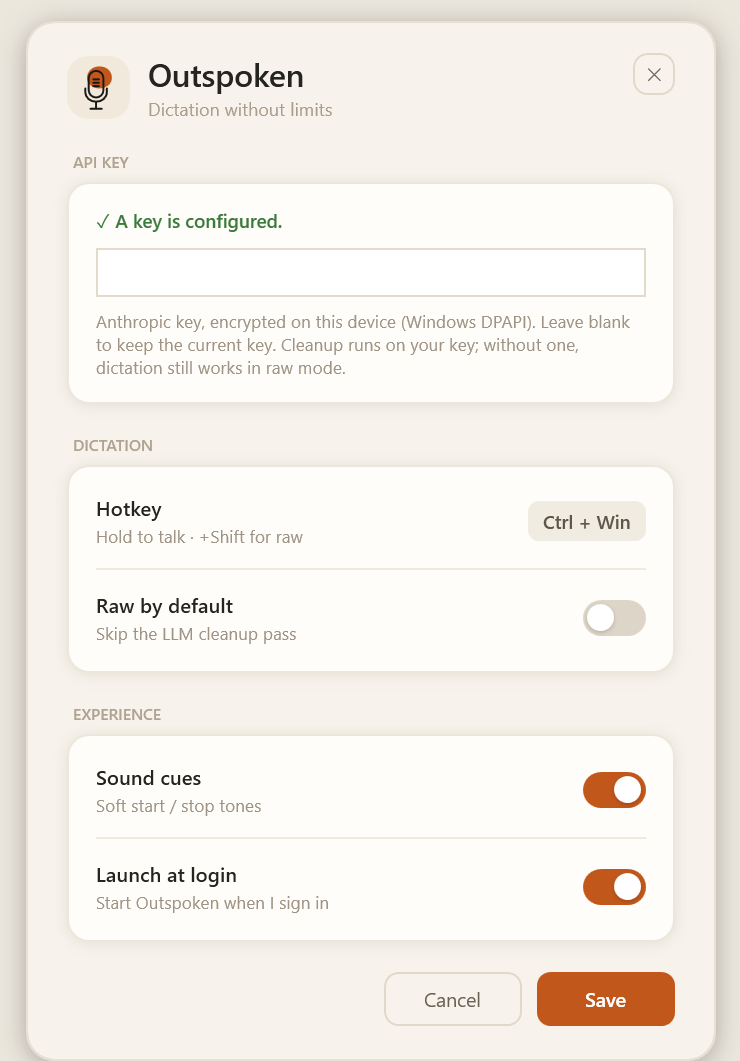
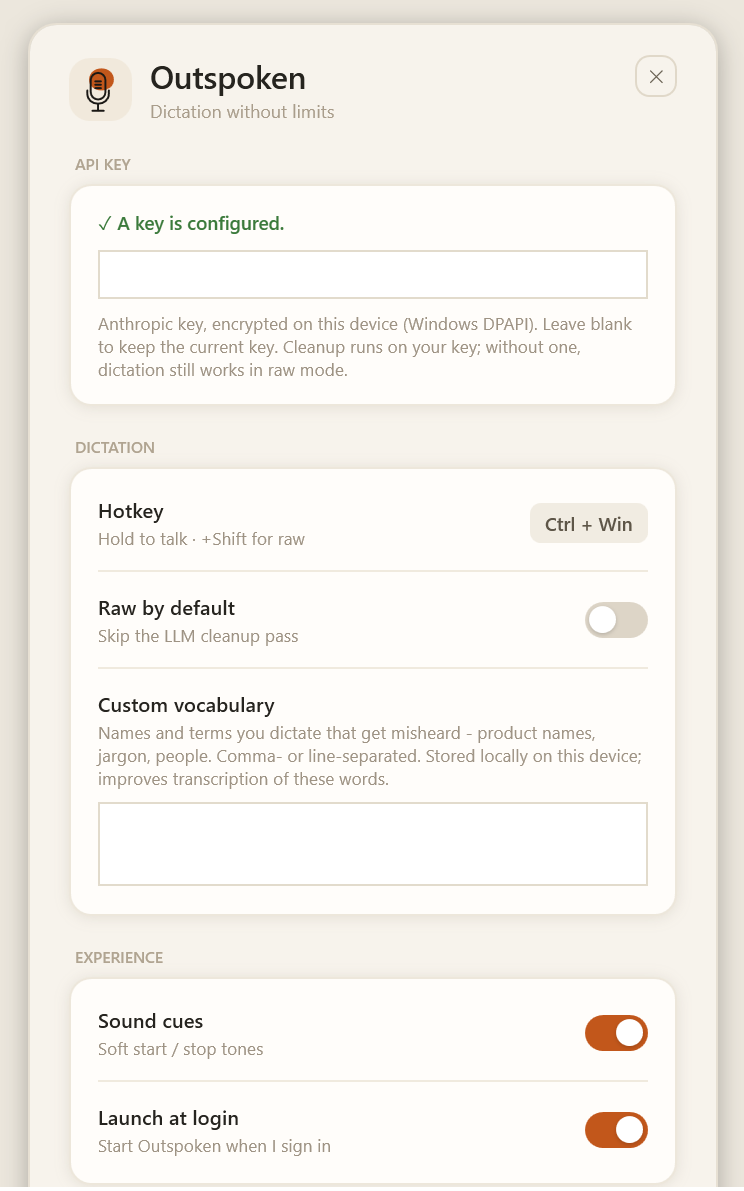
feat: T13 custom vocabulary - user-editable, primes Whisper
base.en mishears product names and jargon ("Outspoken" -> "out spoken" /
"file spoken"). Rather than hardcode a word list in this public repo, add a
user-editable custom vocabulary: a field in Settings, stored locally in
settings.json, fed into Whisper's initial prompt to bias recognition toward
those spellings. Near-zero latency cost (measured: transcription unchanged),
and nothing personal ships in the code.

- AppSettings.CustomVocabulary (defaults to empty).
- WhisperTranscriber takes the vocabulary, builds a WithPrompt seed, and
  UpdateVocabulary rebuilds the processor when it changes (next dictation).
- Settings window: a "Custom vocabulary" text box in the DICTATION card,
  with a hint; loaded/saved with the other settings.
- DictationHost passes the vocabulary at init and on settings change.
- README: describes the feature; refreshed the settings screenshot.
- Settings round-trip test covers the new field. 85/85 tests.

Verified live: entering terms then dictating "...Outspoken in Claude Code"
now transcribes the product name correctly.

diff --git a/src/Outspoken.App/SettingsWindow.xaml b/src/Outspoken.App/SettingsWindow.xaml
@@ -206,6 +206,15 @@
               <CheckBox x:Name="RawDefaultCheck" Style="{StaticResource Toggle}"
                         HorizontalAlignment="Right" VerticalAlignment="Center" />
             </Grid>
+            <Border Height="1" Background="#F0EADE" />
+            <StackPanel Margin="0,14">
+              <TextBlock Text="Custom vocabulary" Style="{StaticResource RowTitle}" />
+              <TextBlock Style="{StaticResource RowHint}"
+                         Text="Names and terms you dictate that get misheard - product names, jargon, people. Comma- or line-separated. Stored locally on this device; improves transcription of these words." />
+              <TextBox x:Name="VocabularyBox" Margin="0,9,0,0" Padding="9,7" FontSize="12"
+                       MinHeight="56" MaxHeight="120" TextWrapping="Wrap" AcceptsReturn="True"
+                       VerticalScrollBarVisibility="Auto" BorderBrush="#E2DBCC" Background="White" />
+            </StackPanel>
           </StackPanel>
         </Border>
 

diff --git a/src/Outspoken.Core/Transcription/WhisperTranscriber.cs b/src/Outspoken.Core/Transcription/WhisperTranscriber.cs
@@ -27,13 +27,17 @@ public sealed class WhisperTranscriber : ITranscriber, IDisposable
     private readonly SemaphoreSlim _lock = new(1, 1);
     private WhisperProcessor _processor;
     private bool _rebuildRequested;
+    // Whisper initial-prompt built from the user's custom vocabulary (T13). Reference assignment is
+    // atomic; a rebuild reads it under _lock. Null/empty means no vocabulary priming.
+    private volatile string? _vocabularyPrompt;
 
-    private WhisperTranscriber(string modelPath, WhisperFactory factory, WhisperProcessor processor, TimeSpan modelLoadTime)
+    private WhisperTranscriber(string modelPath, WhisperFactory factory, WhisperProcessor processor, TimeSpan modelLoadTime, string? vocabularyPrompt)
     {
         _modelPath = modelPath;
         _factory = factory;
         _processor = processor;
         ModelLoadTime = modelLoadTime;
+        _vocabularyPrompt = vocabularyPrompt;
     }
 
     /// <summary>Cold-start cost, logged at startup — must stay off the dictation path.</summary>
@@ -43,19 +47,22 @@ public sealed class WhisperTranscriber : ITranscriber, IDisposable
     public event Action<string>? ProcessorRebuilt;
 
     /// <summary>Loads the model (downloading on first run) and warms the processor.</summary>
+    /// <param name="vocabulary">Optional custom vocabulary (user setting, T13) to bias recognition.</param>
     public static async Task<WhisperTranscriber> CreateAsync(
         string? modelDirectory = null,
         IProgress<double>? downloadProgress = null,
-        CancellationToken cancellationToken = default)
+        CancellationToken cancellationToken = default,
+        string? vocabulary = null)
     {
         var modelPath = await WhisperModelStore.EnsureModelAsync(modelDirectory, downloadProgress, cancellationToken);
 
+        var prompt = BuildVocabularyPrompt(vocabulary);
         var sw = Stopwatch.StartNew();
         var factory = WhisperFactory.FromPath(modelPath);
-        var processor = BuildProcessor(factory);
+        var processor = BuildProcessor(factory, prompt);
         sw.Stop();
 
-        return new WhisperTranscriber(modelPath, factory, processor, sw.Elapsed);
+        return new WhisperTranscriber(modelPath, factory, processor, sw.Elapsed, prompt);
     }
 
     /// <summary>
@@ -63,6 +70,28 @@ public sealed class WhisperTranscriber : ITranscriber, IDisposable
     /// a processor that lived through sleep is not trusted.
     /// </summary>
     public void Rebuild() => _rebuildRequested = true;
+
+    /// <summary>
+    /// Swaps the custom vocabulary (T13). Takes effect on the next transcription via a processor
+    /// rebuild - call after the user edits the vocabulary in settings.
+    /// </summary>
+    public void UpdateVocabulary(string? vocabulary)
+    {
+        var prompt = BuildVocabularyPrompt(vocabulary);
+        if (prompt == _vocabularyPrompt)
+            return; // no change, don't churn the processor
+        _vocabularyPrompt = prompt;
+        _rebuildRequested = true;
+    }
+
+    /// <summary>Turns a user vocabulary list into a Whisper initial prompt, or null when empty.</summary>
+    private static string? BuildVocabularyPrompt(string? vocabulary)
+    {
+        var trimmed = vocabulary?.Trim();
+        return string.IsNullOrEmpty(trimmed)
+            ? null
+            : $"This is a dictation that may reference names and terms such as: {trimmed}.";
+    }
 
     public async Task<string> TranscribeAsync(CapturedAudio audio, CancellationToken cancellationToken = default)
     {
@@ -105,21 +134,27 @@ public sealed class WhisperTranscriber : ITranscriber, IDisposable
         {
             // A damaged processor may fail its own dispose; the replacement matters more.
         }
-        _processor = BuildProcessor(_factory);
+        _processor = BuildProcessor(_factory, _vocabularyPrompt);
         ProcessorRebuilt?.Invoke(reason);
     }
 
-    private static WhisperProcessor BuildProcessor(WhisperFactory factory)
+    private static WhisperProcessor BuildProcessor(WhisperFactory factory, string? vocabularyPrompt)
     {
         // Decode tuning (T12): dictation is a single utterance, so take one segment with no
         // cross-segment context, and greedy with best-of 1 (a single decode pass) instead of the
         // default best-of resampling. Cuts decode compute with no measured accuracy loss.
-        var greedy = (GreedySamplingStrategyBuilder)factory.CreateBuilder()
+        var builder = factory.CreateBuilder()
             .WithLanguage("en")
             .WithThreads(CoreInfo.WhisperThreadCap)
             .WithSingleSegment()
-            .WithNoContext()
-            .WithGreedySamplingStrategy();
+            .WithNoContext();
+
+        // Vocabulary priming (T13): the user's custom vocabulary biases recognition toward their
+        // product names / jargon. No terms configured -> no prompt (default behaviour).
+        if (!string.IsNullOrEmpty(vocabularyPrompt))
+            builder = builder.WithPrompt(vocabularyPrompt);
+
+        var greedy = (GreedySamplingStrategyBuilder)builder.WithGreedySamplingStrategy();
         greedy.WithBestOf(1);
         return greedy.ParentBuilder.Build();
     }

diff --git a/src/Outspoken.Core/Settings/AppSettings.cs b/src/Outspoken.Core/Settings/AppSettings.cs
@@ -15,4 +15,11 @@ public sealed record AppSettings
 
     /// <summary>Start Outspoken automatically when Windows starts (HKCU Run key).</summary>
     public bool LaunchAtLogin { get; init; }
+
+    /// <summary>
+    /// Custom vocabulary (T13): comma- or line-separated names and terms the user dictates (product
+    /// names, jargon) that base.en tends to mishear. Primes the Whisper decoder toward these
+    /// spellings. Stored locally, edited in Settings - deliberately not shipped in the repo.
+    /// </summary>
+    public string CustomVocabulary { get; init; } = "";
 }

diff --git a/src/Outspoken.App/DictationHost.cs b/src/Outspoken.App/DictationHost.cs
@@ -34,12 +34,12 @@ public sealed class DictationHost : IDisposable
     /// <summary>Reflects whether a valid API key is configured and cleanup is active.</summary>
     public bool CleanupEnabled => _cleanup is not null;
 
-    public async Task InitAsync()
+    public async Task InitAsync(AppSettings settings)
     {
         try
         {
             var progress = new Progress<double>(p => Emit($"model download {p:P0}"));
-            _transcriber = await WhisperTranscriber.CreateAsync(downloadProgress: progress);
+            _transcriber = await WhisperTranscriber.CreateAsync(downloadProgress: progress, vocabulary: settings.CustomVocabulary);
             Emit($"model warm — load {_transcriber.ModelLoadTime.TotalMilliseconds:F0} ms");
             _transcriber.ProcessorRebuilt += reason => Emit($"whisper processor rebuilt ({reason})");
 
@@ -100,6 +100,7 @@ public sealed class DictationHost : IDisposable
         _cues.Enabled = settings.AudioCuesEnabled;
         if (_orchestrator is not null)
             _orchestrator.ForceRawMode = settings.RawModeDefault;
+        _transcriber?.UpdateVocabulary(settings.CustomVocabulary); // takes effect next dictation
     }
 
     private void OnStateChanged(DictationState state)

diff --git a/tests/Outspoken.Core.Tests/SettingsStoreTests.cs b/tests/Outspoken.Core.Tests/SettingsStoreTests.cs
@@ -17,6 +17,7 @@ public class SettingsStoreTests
         Assert.True(s.AudioCuesEnabled);   // on by default
         Assert.False(s.RawModeDefault);
         Assert.False(s.LaunchAtLogin);
+        Assert.Equal("", s.CustomVocabulary); // no vocabulary shipped by default
     }
 
     [Fact]
@@ -26,12 +27,13 @@ public class SettingsStoreTests
         try
         {
             var store = new SettingsStore(path);
-            store.Save(new AppSettings { AudioCuesEnabled = false, RawModeDefault = true, LaunchAtLogin = true });
+            store.Save(new AppSettings { AudioCuesEnabled = false, RawModeDefault = true, LaunchAtLogin = true, CustomVocabulary = "Outspoken, Moneybox" });
 
             var loaded = new SettingsStore(path).Load();
             Assert.False(loaded.AudioCuesEnabled);
             Assert.True(loaded.RawModeDefault);
             Assert.True(loaded.LaunchAtLogin);
+            Assert.Equal("Outspoken, Moneybox", loaded.CustomVocabulary);
         }
         finally
         {

diff --git a/src/Outspoken.App/App.xaml.cs b/src/Outspoken.App/App.xaml.cs
@@ -128,7 +128,7 @@ public partial class App : Application
 
     private async Task InitAsync(AppSettings settings)
     {
-        await _host!.InitAsync();
+        await _host!.InitAsync(settings);
         _host.ApplySettings(settings);
     }
 

diff --git a/src/Outspoken.App/SettingsWindow.xaml.cs b/src/Outspoken.App/SettingsWindow.xaml.cs
@@ -30,6 +30,7 @@ public partial class SettingsWindow : Window
         CuesCheck.IsChecked = settings.AudioCuesEnabled;
         RawDefaultCheck.IsChecked = settings.RawModeDefault;
         LaunchCheck.IsChecked = StartupRegistration.IsEnabled();
+        VocabularyBox.Text = settings.CustomVocabulary;
 
         var hasKey = ApiKeyStore.Exists;
         KeyStatus.Text = hasKey ? "✓ A key is configured." : "No key configured — cleanup is off.";
@@ -48,6 +49,7 @@ public partial class SettingsWindow : Window
                 AudioCuesEnabled = CuesCheck.IsChecked == true,
                 RawModeDefault = RawDefaultCheck.IsChecked == true,
                 LaunchAtLogin = LaunchCheck.IsChecked == true,
+                CustomVocabulary = VocabularyBox.Text.Trim(),
             };
             _store.Save(settings);
             _host.ApplySettings(settings);

diff --git a/README.md b/README.md
@@ -43,10 +43,10 @@ The listening pill is the product’s visible signature — a small, calm, paper
 
 ## Tray &amp; settings
 
-Outspoken lives in the system tray — always ready, no window in the way. A single settings panel holds everything: your Anthropic key (encrypted on-device via Windows DPAPI, never shown in plaintext), the push-to-talk hotkey, raw-by-default, sound cues, and launch-at-login.
+Outspoken lives in the system tray - always ready, no window in the way. A single settings panel holds everything: your Anthropic key (encrypted on-device via Windows DPAPI, never shown in plaintext), the push-to-talk hotkey, raw-by-default, sound cues, launch-at-login, and a **custom vocabulary** - names and jargon you dictate (product names, tech terms, people) that get misheard. Add your words there and local transcription biases toward them; it is stored only on your device, never in this repo.
 
 <p align="center">
-  <img src="docs/images/settings.png" width="380" alt="Outspoken settings — a rounded cream panel with the brand mark, an API-key field, and toggles for raw mode, sound cues, and launch at login" />
+  <img src="docs/images/settings.png" width="380" alt="Outspoken settings - a rounded cream panel with the brand mark, an API-key field, the hotkey, and controls for raw mode, custom vocabulary, sound cues, and launch at login" />
 </p>
 
 ## Principles